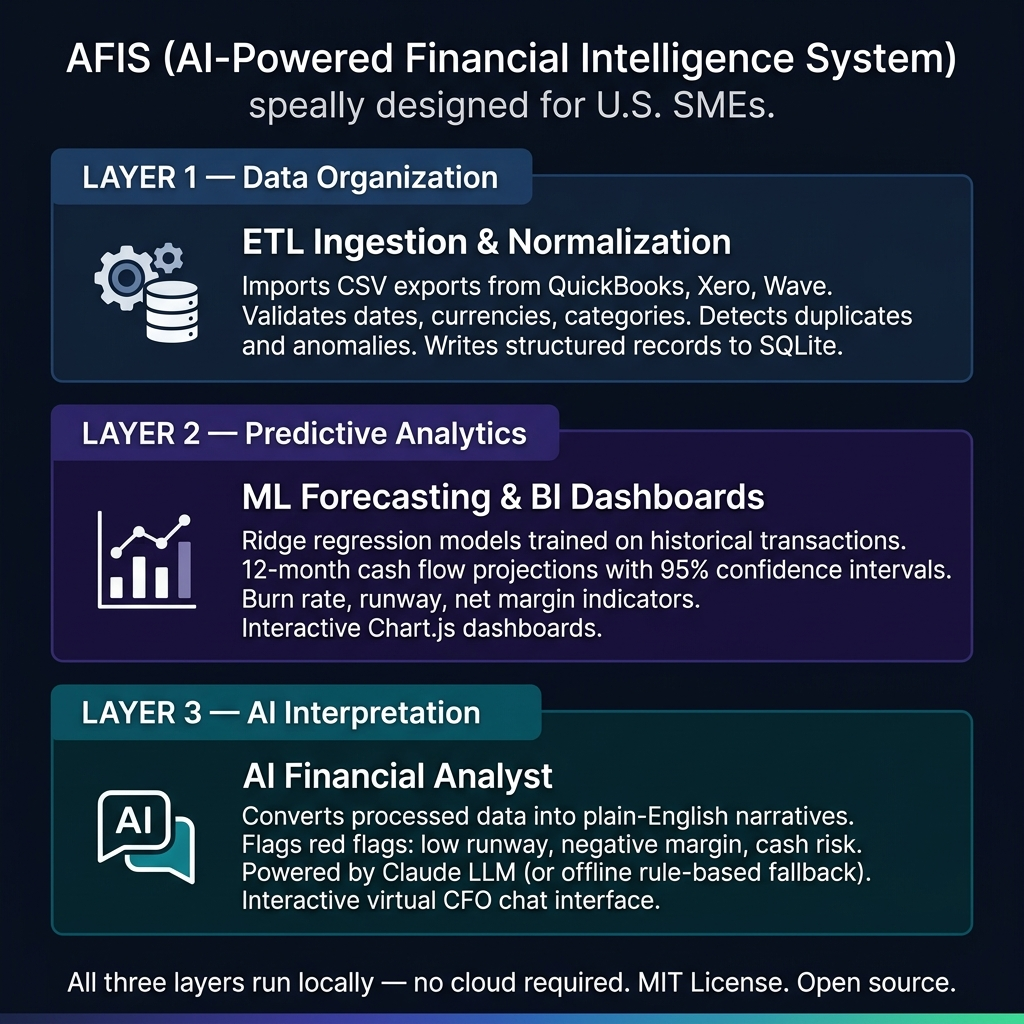
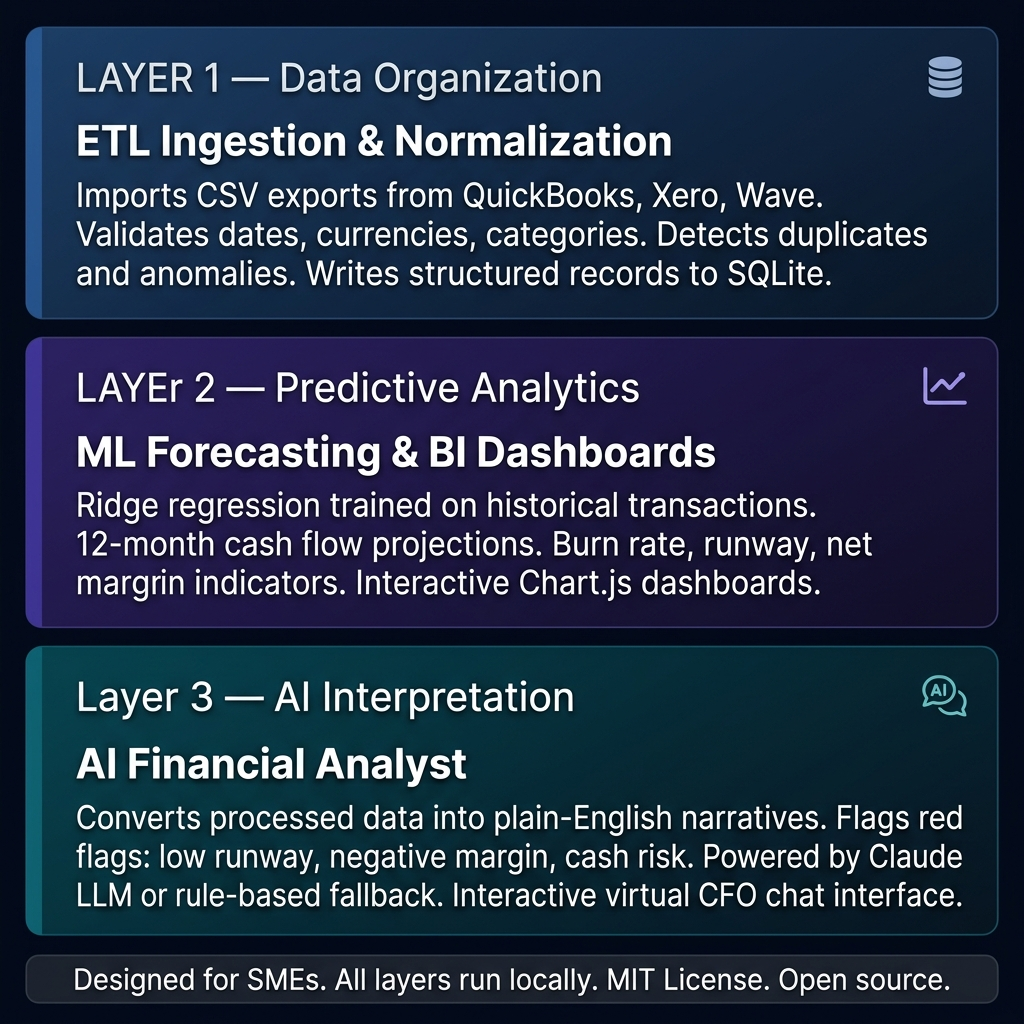
docs: move rich README to root so GitHub renders it — fix image paths, remove U.S. qualifiers, update repo name to AFIS-Framework

diff --git a/README.md b/README.md
@@ -2,50 +2,279 @@
 
 [![License: MIT](https://img.shields.io/badge/License-MIT-yellow.svg)](https://opensource.org/licenses/MIT)
 [![Python](https://img.shields.io/badge/Python-3.10%2B-blue.svg)](https://www.python.org/)
+[![FastAPI](https://img.shields.io/badge/FastAPI-0.110%2B-green.svg)](https://fastapi.tiangolo.com/)
+[![scikit-learn](https://img.shields.io/badge/scikit--learn-Ridge%20Regression-orange.svg)](https://scikit-learn.org/)
+[![NIST AI RMF](https://img.shields.io/badge/NIST%20AI%20RMF-1.0%20Aligned-blue.svg)](https://airc.nist.gov/RMF)
 
-a suite of open-source tools designed to empower Small and Medium Enterprises (SMEs) with AI-driven financial intelligence.
+> **a suite of open-source tools designed to empower Small and Medium Enterprises (SMEs) with AI-driven financial intelligence.**
+
+AFIS is an open-source financial intelligence framework that solves a specific problem: small businesses generate enough financial data — but almost none of them convert it into forward-looking decisions. AFIS bridges that gap. It ingests raw transactional records, applies machine learning to project cash flow, and surfaces plain-English interpretations through an interactive AI Financial Analyst — running entirely on the business owner's machine, with zero cloud dependency and no recurring subscription cost.
 
 ---
 
-## AFIS
+## The Problem AFIS Solves
 
-| Directory | Description | Version |
+> *61% of small businesses have no real-time view of their cash position. 88% experienced an unexpected cash shock in the last year. Only 31% manage cash flow actively.*
+> — Federal Reserve Small Business Credit Survey (2024); QuickBooks State of Small Business Cash Flow (2025)
+
+The issue is not the absence of data. The issue is the absence of **conversion**: transforming raw exports from QuickBooks, Xero, or Wave into visibility, margin analysis, risk indicators, and 30/90/180-day projections — before the crisis, not after.
+
+AFIS addresses this conversion problem directly, for the segment that needs it most: the 33.2 million small businesses that collectively represent 99.9% of all American businesses and nearly half of private-sector employment.
+
+---
+
+## How It Works — Three Integrated Layers
+
+![AFIS Three-Layer Architecture](AFIS/docs/images/three_layers.png)
+
+### Layer 1 — Data Organization (ETL Ingestion)
+Receives CSV exports from any accounting system. Validates schema, normalizes dates and currency formats, detects duplicates and statistical anomalies, logs every action to a NIST-aligned compliance audit trail, and writes clean records to a local SQLite database.
+
+```
+Input:  QuickBooks export / Xero CSV / custom ledger
+Output: Structured transactions table — validated, deduplicated, audit-logged
+```
+
+### Layer 2 — Predictive Analytics (ML Forecasting + BI Dashboards)
+Trains Ridge regression models on the structured transaction history to produce 12-month projections of revenue, expenses, and net cash flow — each accompanied by 95% confidence intervals. Exposes burn rate, runway, net margin, and cash position via interactive Chart.js dashboards.
+
+```
+Input:  Structured financial database
+Output: 12-month cash flow forecast · burn rate · runway · confidence bounds
+```
+
+### Layer 3 — AI Interpretation (Financial Analyst Agent)
+Converts processed metrics into natural-language management narratives, flags financial red flags (low runway, negative margin, unusual burn), and provides actionable recommendations. Operates in two modes:
+- **LLM Mode**: powered by Anthropic Claude for context-aware narrative generation
+- **Offline Mode**: deterministic rule-based heuristics — no API key required
+
+```
+Input:  Computed KPIs and forecast results
+Output: Plain-English narrative · risk flags · strategic recommendations
+```
+
+---
+
+## Technical Architecture
+
+![AFIS System Architecture](AFIS/docs/images/architecture.png)
+
+```mermaid
+graph TD
+    A["Raw Financial Data<br/>(CSV / QuickBooks / Xero)"] -->|POST /api/ingest| B["ETL Ingestor<br/>app/etl/ingestor.py"]
+    B -->|Validated records| C[("SQLite Database<br/>afis_finance.db")]
+    C -->|Historical transactions| D["ML Forecasting Engine<br/>app/forecasting/model.py<br/>Ridge Regression · scikit-learn"]
+    C -->|KPI context + audit logs| E["AI Financial Analyst<br/>app/ai_agent/analyst.py<br/>+ app/llm_client.py"]
+    D -->|12-month projections| F["FastAPI Backend<br/>app/main.py"]
+    E -->|Narratives + NIST audit| F
+    F -->|REST API| G["Glassmorphic Dashboard<br/>frontend/ · Chart.js"]
+    G -->|Interactive chat + live charts| H["Business Owner / CFO"]
+```
+
+### REST API Surface
+
+| Endpoint | Method | Description |
 |---|---|---|
-| [`AFIS/`](AFIS/) | **AI-Powered Financial Intelligence System** — ETL ingestion, Ridge regression cash flow forecasting, AI Financial Analyst, NIST AI RMF 1.0 aligned compliance logging, glassmorphic web dashboard | `v0.2.1` |
+| `/api/ingest` | `POST` | Upload CSV ledger — triggers ETL pipeline and model retraining |
+| `/api/kpis` | `GET` | Current KPIs: cash balance, burn rate, runway, net margin |
+| `/api/forecast` | `GET` | 12-month ML projections with confidence intervals |
+| `/api/chat` | `POST` | Interactive query to the AI Financial Analyst |
+| `/api/nist-compliance` | `GET` | NIST AI RMF 1.0 audit checklist and compliance logs |
+| `/api/system/status` | `GET` | System status, AI mode (`llm` or `offline`), version |
+
+### Stack
+
+| Component | Technology |
+|---|---|
+| Backend | FastAPI (Python 3.10+) |
+| ML Forecasting | scikit-learn · Ridge Regression · NumPy · pandas |
+| Database | SQLite (zero-server, local-first) |
+| AI Narrative | Anthropic Claude (optional) · rule-based offline fallback |
+| Dashboard | HTML + CSS + JavaScript · Chart.js |
+| Testing | pytest · httpx |
+| Data format | CSV — compatible with QuickBooks, Xero, Wave exports |
+
+---
+
+## Key Design Decisions
+
+**Local-first, privacy by design.** All transaction data stays on the SME's machine. The optional LLM integration transmits only computed financial metrics to the API — never raw transaction records.
+
+**Zero-server dependency.** SQLite requires no database server. The entire stack starts with a single command.
+
+**Works without an API key.** Every feature — ETL, forecasting, dashboards — operates in full in offline mode. The AI narrative layer degrades gracefully to deterministic heuristics.
+
+**Provider-agnostic LLM layer.** `app/llm_client.py` abstracts the AI provider. Anthropic Claude is the reference implementation; any provider can be substituted.
+
+**NIST AI RMF 1.0 alignment.** Not a certification claim — a design principle. Every ETL action, model run, and AI interaction is logged to a persistent `compliance_logs` table following NIST governance principles: validity, reliability, explainability, and human oversight.
+
+---
+
+## Who Is This For?
+
+AFIS is built for owners and CFOs of small and medium enterprises who need financial intelligence without enterprise software costs — and for the accountants, bookkeepers, and BI consultants who serve them.
+
+**You do not need a data science background.** Export your ledger from QuickBooks or Xero, drop in the CSV, and run `python run.py`. AFIS handles schema validation, model training, and interpretation.
+
+**Target use cases:**
+- **Accounting & advisory firms** — elevate client data from bookkeeping to CFO-level advisory dashboards
+- **Property management** — multi-property revenue/expense tracking, seasonal forecasting, owner reporting
+- **Facility & contract services** — margin-by-contract analysis, cost-center tracking, receivables monitoring
+- **Any SME with a CSV export** — immediate cash flow visibility and forward projections
 
 ---
 
 ## Quickstart
 
 ```bash
-git clone https://github.com/Albertsfc/AFIS-Core-Framework.git
-cd AFIS-Core-Framework/AFIS
+git clone https://github.com/Albertsfc/AFIS-Framework.git
+cd AFIS-Framework/AFIS
 pip install -r requirements.txt
 python run.py
 ```
 
-See [`AFIS/README.md`](AFIS/README.md) for full documentation, architecture diagrams, REST API reference, and contributing guidelines.
+Open `http://localhost:8000/static/index.html` in your browser.
+
+**Try it with sample data:** the system auto-seeds a synthetic 24-month transaction dataset (`AFIS/data/examples/sample_sme_transactions.csv`) — 421 transactions, ~$1.9M annual revenue, 9% net margin. The ML model trains on it immediately.
+
+---
+
+## AI Analysis Modes
+
+**LLM Mode** — set the environment variable and restart:
+
+```bash
+# Linux/macOS
+export ANTHROPIC_API_KEY=your_key_here
+
+# Windows
+set ANTHROPIC_API_KEY=your_key_here
+
+python run.py
+```
+
+**Offline Mode** (default, no key required): rule-based financial heuristics generate structured analysis covering runway assessment, margin evaluation, and burn rate monitoring. All ETL, forecasting, and dashboard functionality is identical in both modes.
+
+Check which mode is active:
+
+```bash
+curl http://localhost:8000/api/system/status
+# {"status": "running", "ai_mode": "offline", "version": "0.2.0"}
+```
+
+---
+
+## Getting Started
+
+### Prerequisites
+- Python 3.10 or higher
+- Git
+
+### Installation
+
+```bash
+# 1. Clone
+git clone https://github.com/Albertsfc/AFIS-Framework.git
+cd AFIS-Framework/AFIS
+
+# 2. Create virtual environment
+python -m venv venv
+source venv/bin/activate   # Windows: venv\Scripts\activate
+
+# 3. Install dependencies
+pip install -r requirements.txt
+
+# 4. (Optional) configure environment
+cp .env.example .env
+# Edit .env to add your ANTHROPIC_API_KEY if desired
+
+# 5. Launch
+python run.py
+```
+
+### Running Tests
+
+```bash
+pytest tests/ -v
+```
+
+---
+
+## NIST AI RMF 1.0 Alignment
+
+| NIST Function | AFIS Implementation |
+|---|---|
+| **GOVERN** | MIT License · open audit logs · `CONTRIBUTING.md` · traceable decision logic |
+| **MAP** | Financial domain scoped to SME use cases · documented assumptions and limitations |
+| **MEASURE** | Automated pytest suite · model residuals computed per run · anomaly detection in ETL |
+| **MANAGE** | Offline fallback · duplicate/outlier flagging · `compliance_logs` table · explainable Ridge model |
+
+The AI Financial Analyst sends only computed aggregate metrics to the LLM API — never raw transaction data. This is enforced at the `app/llm_client.py` layer.
 
 ---
 
 ## Repository Structure
 
 ```
-AFIS-Core-Framework/
-└── AFIS/                ← AI-Powered Financial Intelligence System
-    ├── app/             ← FastAPI backend (ETL, ML, AI Agent)
-    ├── data/            ← Synthetic SME datasets for demo and testing
-    ├── docs/            ← Architecture documentation and diagrams
-    ├── frontend/        ← Glassmorphic dark-mode web dashboard
-    ├── tests/           ← pytest suite
-    ├── run.py           ← Single-command launcher
+AFIS-Framework/
+└── AFIS/
+    ├── app/
+    │   ├── main.py                  ← FastAPI app · route registration · static serving
+    │   ├── llm_client.py            ← Provider-agnostic LLM client (Claude + offline fallback)
+    │   ├── ai_agent/
+    │   │   └── analyst.py           ← KPI computation · health report · chat Q&A
+    │   ├── database/
+    │   │   └── db_manager.py        ← SQLite connection · schema init · compliance logging
+    │   ├── etl/
+    │   │   └── ingestor.py          ← CSV parsing · validation · duplicate detection · anomaly flagging
+    │   └── forecasting/
+    │       └── model.py             ← Ridge regression · 12-month projection · confidence intervals
+    ├── data/
+    │   └── examples/
+    │       └── sample_sme_transactions.csv   ← 421-row synthetic dataset (24 months)
+    ├── docs/
+    │   ├── architecture.md          ← Detailed architecture and module responsibilities
+    │   └── images/                  ← Architecture diagrams
+    ├── frontend/
+    │   ├── index.html               ← Dark-mode glassmorphic dashboard
+    │   ├── styles.css               ← CSS grid layout
+    │   └── app.js                   ← Chart.js charts · API calls · chat interface
+    ├── tests/
+    │   ├── conftest.py              ← Shared pytest fixtures
+    │   ├── test_etl.py              ← ETL pipeline tests
+    │   ├── test_forecast.py         ← ML forecasting tests
+    │   └── test_api.py              ← FastAPI endpoint tests
+    ├── .env.example                 ← Environment variable template
+    ├── CHANGELOG.md                 ← Full release history
+    ├── CONTRIBUTING.md              ← Contribution guide
+    ├── LICENSE                      ← MIT License
     ├── requirements.txt
-    ├── CHANGELOG.md
-    └── README.md        ← Full technical documentation
+    └── run.py                       ← Single-command launcher with .env auto-load
 ```
+
+---
+
+## Contributing
+
+See [AFIS/CONTRIBUTING.md](AFIS/CONTRIBUTING.md) for guidelines on reporting issues, submitting code, and contributing datasets.
+
+Areas where help is most needed:
+- ETL connectors for additional accounting formats (Xero XML, Wave CSV, FreshBooks)
+- Additional ML models for highly seasonal businesses (Prophet, LSTM)
+- Docker Compose setup for zero-dependency deployment
+- Localization for Spanish-speaking SME owners
+
+---
+
+## Changelog
+
+See [AFIS/CHANGELOG.md](AFIS/CHANGELOG.md) for the full release history.
+
+### Latest: v0.2.1
+- Finalized README, updated badges, and revised architecture documentation
 
 ---
 
 ## License
 
-MIT License — see [`AFIS/LICENSE`](AFIS/LICENSE).
+MIT License — see [AFIS/LICENSE](AFIS/LICENSE) for details. Free to use, adapt, and redistribute.

diff --git a/AFIS/README.md b/AFIS/README.md
@@ -19,7 +19,7 @@ AFIS is an open-source financial intelligence framework that solves a specific p
 
 The issue is not the absence of data. The issue is the absence of **conversion**: transforming raw exports from QuickBooks, Xero, or Wave into visibility, margin analysis, risk indicators, and 30/90/180-day projections — before the crisis, not after.
 
-AFIS addresses this conversion problem directly, for the segment that needs it most: the 33.2 million U.S. small businesses that collectively represent 99.9% of all American businesses and nearly half of private-sector employment.
+AFIS addresses this conversion problem directly, for the segment that needs it most: the 33.2 million small businesses that collectively represent 99.9% of all American businesses and nearly half of private-sector employment.
 
 ---
 
@@ -112,7 +112,7 @@ graph TD
 
 ## Who Is This For?
 
-AFIS is built for owners and CFOs of U.S. small and medium enterprises who need financial intelligence without enterprise software costs — and for the accountants, bookkeepers, and BI consultants who serve them.
+AFIS is built for owners and CFOs of small and medium enterprises who need financial intelligence without enterprise software costs — and for the accountants, bookkeepers, and BI consultants who serve them.
 
 **You do not need a data science background.** Export your ledger from QuickBooks or Xero, drop in the CSV, and run `python run.py`. AFIS handles schema validation, model training, and interpretation.
 